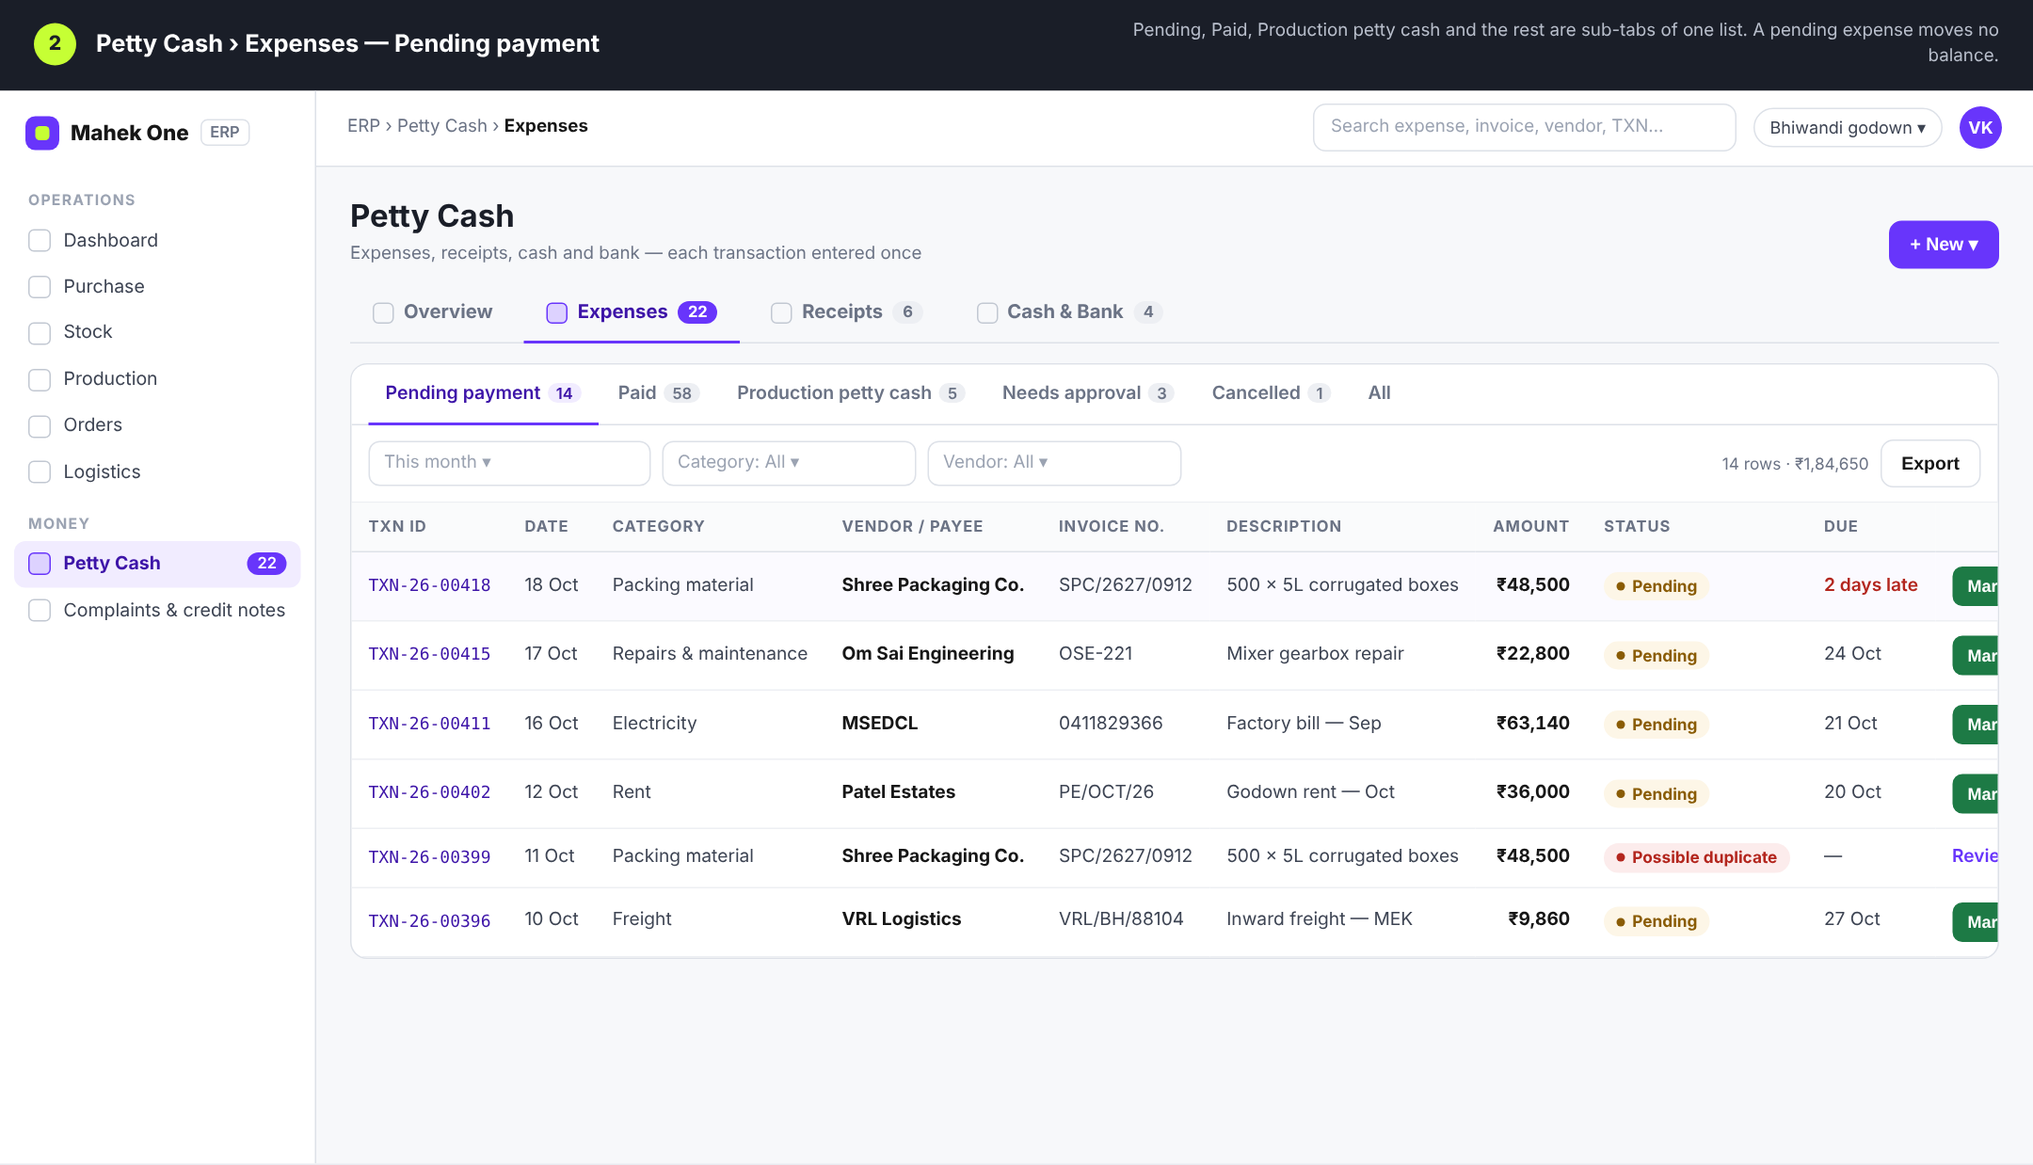
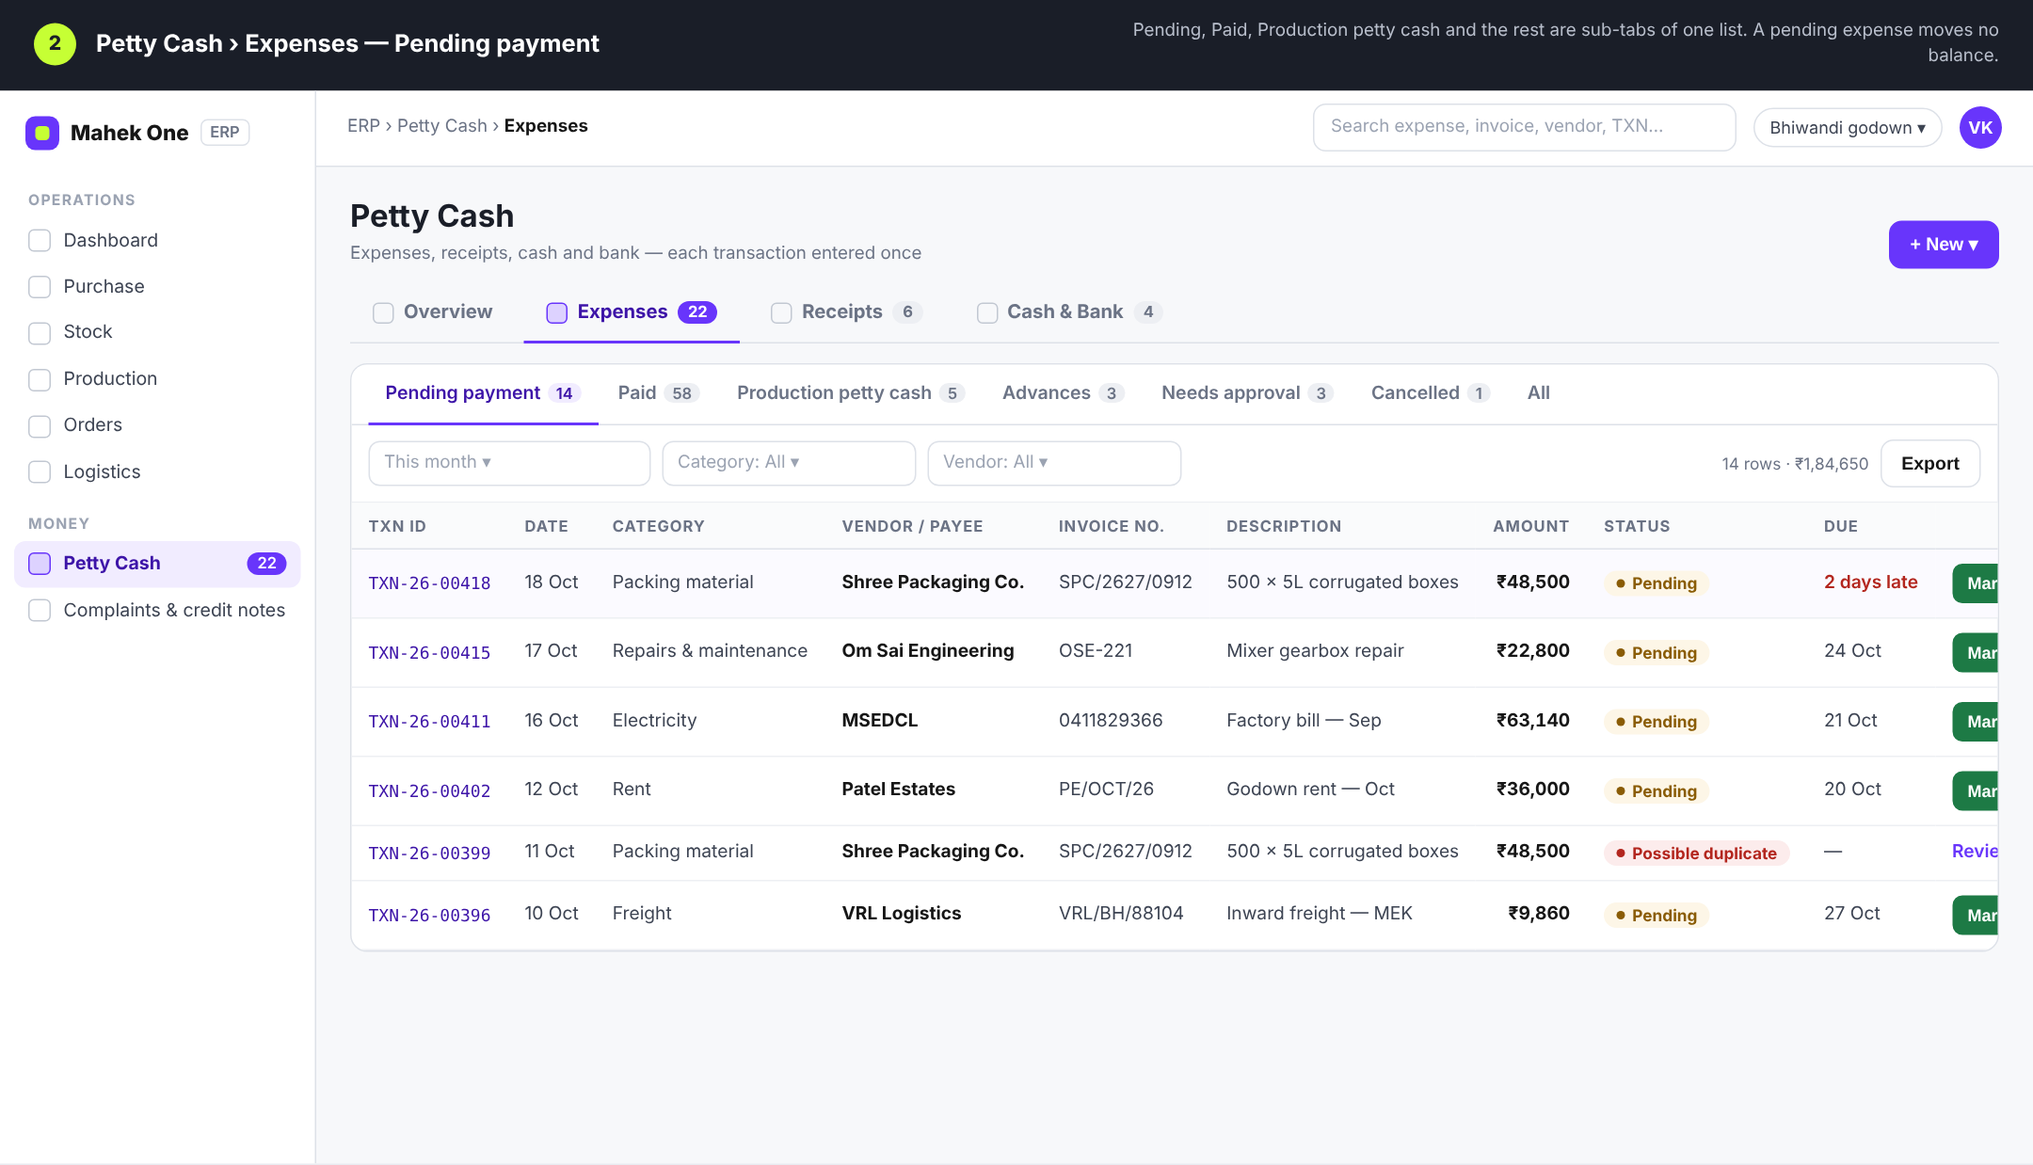
docs(erp): petty cash advances to employees — give, submit bills, settle
Claude-Session: https://claude.ai/code/session_01Lrq5JNPk5tZnbbz81iA7vf

diff --git a/docs/erp/money-flow/mockup.html b/docs/erp/money-flow/mockup.html
@@ -1,4 +1,3 @@
-<!doctype html><html><head><meta charset="utf-8"><title>Petty Cash module</title>
 <style>
 :root{--canvas:#f7f8fa;--surface:#fff;--line:#dde1e8;--line2:#c2c8d2;--div:#edeff3;--ink:#161616;--body:#3d4453;--muted:#6b7385;--faint:#9ba3b2;
 --brand:#6835fb;--brand-soft:#f1ecff;--brand-softer:#ddd2ff;--brand-deep:#3d14a8;--lime:#c6ff34;
@@ -155,7 +154,6 @@ tr.sel td{background:var(--brand-soft)}
 .ex{display:grid;grid-template-columns:1fr auto 1fr;gap:8px;align-items:center;font-size:12px;padding:6px 0;border-top:1px dashed var(--div)}
 .ex .a{text-align:right}
 </style></head><body>
-</head><body>
 <style>
 .modhead{display:flex;align-items:flex-end;gap:12px;margin-bottom:12px}
 .modhead h2{font-size:22px;color:#1a1e28;font-weight:700}
@@ -225,7 +223,7 @@ tr.sel td{background:var(--brand-soft)}
   <div class="pg">
    <div class="modhead" data-sub="Expenses"></div>
    <div class="card">
-    <div class="tabs"><div class="tab on">Pending payment<span class="c">14</span></div><div class="tab">Paid<span class="c">58</span></div><div class="tab">Production petty cash<span class="c">5</span></div><div class="tab">Needs approval<span class="c">3</span></div><div class="tab">Cancelled<span class="c">1</span></div><div class="tab">All</div></div>
+    <div class="tabs"><div class="tab on">Pending payment<span class="c">14</span></div><div class="tab">Paid<span class="c">58</span></div><div class="tab">Production petty cash<span class="c">5</span></div><div class="tab">Advances<span class="c">3</span></div><div class="tab">Needs approval<span class="c">3</span></div><div class="tab">Cancelled<span class="c">1</span></div><div class="tab">All</div></div>
     <div class="tool"><div class="in" style="width:200px">This month ▾</div><div class="in" style="width:180px">Category: All ▾</div><div class="in" style="width:180px">Vendor: All ▾</div><div class="ml sm2">14 rows · ₹1,84,650</div><button class="btn">Export</button></div>
     <table>
      <tr><th>TXN ID</th><th>Date</th><th>Category</th><th>Vendor / payee</th><th>Invoice no.</th><th>Description</th><th class="r">Amount</th><th>Status</th><th>Due</th><th></th></tr>
@@ -324,7 +322,7 @@ tr.sel td{background:var(--brand-soft)}
   <div class="pg" style="min-height:880px">
    <div class="modhead" data-sub="Expenses"></div>
    <div class="card">
-    <div class="tabs"><div class="tab">Pending payment<span class="c">14</span></div><div class="tab">Paid<span class="c">58</span></div><div class="tab on">Production petty cash<span class="c">5</span></div><div class="tab">Needs approval<span class="c">3</span></div><div class="tab">Cancelled<span class="c">1</span></div><div class="tab">All</div></div>
+    <div class="tabs"><div class="tab">Pending payment<span class="c">14</span></div><div class="tab">Paid<span class="c">58</span></div><div class="tab on">Production petty cash<span class="c">5</span></div><div class="tab">Advances<span class="c">3</span></div><div class="tab">Needs approval<span class="c">3</span></div><div class="tab">Cancelled<span class="c">1</span></div><div class="tab">All</div></div>
     <table><tr><th>TXN ID</th><th>Date</th><th>Category</th><th>Paid to</th><th>Bill no.</th><th>Paid from</th><th class="r">Amount</th><th>Status</th></tr>
     <tr><td class="mono">TXN-26-00423</td><td>19 Oct</td><td>Petrol</td><td><b>HP Petrol Pump</b></td><td>HP-77120</td><td><span class="acc"><i class="ca">₹</i>Cash · Sai Paint House rcpt</span></td><td class="r"><b>₹2,300</b></td><td><span class="pill drf">To review</span></td></tr>
     <tr><td class="mono">TXN-26-00410</td><td>18 Oct</td><td>Tea / food</td><td><b>Ramesh Tea Stall</b></td><td>RT-18</td><td><span class="acc"><i class="k">K</i>Kotak GPay</span></td><td class="r"><b>₹640</b></td><td><span class="pill drf">To review</span></td></tr>
@@ -556,6 +554,133 @@ tr.sel td{background:var(--brand-soft)}
 </div>
 </section>
 
+<!-- ============ 10. ADVANCES – LIST + ISSUE ============ -->
+<section class="shot" id="s10">
+<div class="cap"><div class="n">10</div><h1>Petty Cash › Expenses — Advances</h1><p>A lump sum handed to an employee is an advance, not an expense. Issuing it moves money from Petty Cash to that person's advance; it becomes expense only as their bills are approved.</p></div>
+<div class="app">
+ <aside class="side" data-on="Petty Cash"></aside>
+ <div class="main">
+  <div class="top"><div class="crumb">ERP › Petty Cash › <b>Expenses</b> › Advances</div><div class="search">Search…</div><div class="av" style="background:var(--warn)">RS</div></div>
+  <div class="pg" style="min-height:900px">
+   <div class="modhead" data-sub="Expenses"></div>
+   <div class="card">
+    <div class="tabs"><div class="tab">Pending payment<span class="c">14</span></div><div class="tab">Paid<span class="c">58</span></div><div class="tab">Production petty cash<span class="c">5</span></div><div class="tab on">Advances<span class="c">3</span></div><div class="tab">Needs approval<span class="c">3</span></div><div class="tab">All</div></div>
+    <table><tr><th>Advance</th><th>Given to</th><th>Issued</th><th>From</th><th class="r">Given</th><th class="r">Bills approved</th><th class="r">Bills to review</th><th class="r">Still with them</th><th>Status</th></tr>
+    <tr><td class="mono">ADV-26-0031</td><td><b>Suresh K</b><div class="sm2">Mixing &amp; Blending</div></td><td>14 Oct</td><td><span class="acc"><i class="pt">P</i>Petty Cash</span></td><td class="r"><b>₹5,000</b></td><td class="r">₹2,860</td><td class="r">₹1,540</td><td class="r"><b>₹600</b></td><td><span class="pill drf">Bills to review</span></td></tr>
+    <tr><td class="mono">ADV-26-0029</td><td><b>Anil P</b><div class="sm2">Dispatch</div></td><td>10 Oct</td><td><span class="acc"><i class="ca">₹</i>Cash in Hand</span></td><td class="r"><b>₹3,000</b></td><td class="r">₹1,200</td><td class="r">₹1,920</td><td class="r"><b style="color:var(--danger)">−₹120</b><div class="sm2">owed to him</div></td><td><span class="pill drf">Bills to review</span></td></tr>
+    <tr><td class="mono">ADV-26-0027</td><td><b>Manoj T</b><div class="sm2">Packing</div></td><td>2 Oct</td><td><span class="acc"><i class="k">K</i>Kotak GPay</span></td><td class="r"><b>₹4,000</b></td><td class="r">₹4,000</td><td class="r">—</td><td class="r"><b>₹0</b></td><td><span class="pill paid">Settled</span></td></tr>
+    </table>
+   </div>
+   <div class="veil"></div>
+   <div class="dlg" style="left:190px;top:40px;width:780px">
+    <div class="dh"><h3>Give an advance</h3><span class="mono" style="font-size:11.5px">TXN-26-00425 · ADV-26-0032</span><span class="x">✕</span></div>
+    <div class="db">
+     <div class="grid g3" style="margin-bottom:14px">
+      <div class="f"><label>Given to <em>*</em></label><div class="box sel">Ravi M · Refilling</div></div>
+      <div class="f"><label>Amount <em>*</em></label><div class="box">₹ 5,000</div></div>
+      <div class="f"><label>Date <em>*</em></label><div class="box">20 Oct 2026</div></div>
+      <div class="f"><label>For</label><div class="box">Diesel + loading labour, Bhiwandi trip</div></div>
+      <div class="f"><label>Bills due by</label><div class="box">27 Oct 2026</div><div class="hint">7 days, then he is reminded</div></div>
+      <div class="f"><label>Handed over as</label><div class="box sel">Cash</div></div>
+     </div>
+     <div class="f" style="margin-bottom:8px"><label>Paid from <em>*</em></label></div>
+     <div class="grid" style="grid-template-columns:repeat(4,1fr);gap:8px;margin-bottom:12px">
+      <div class="cand best" style="margin:0;flex-direction:column;align-items:flex-start;gap:2px"><span class="acc"><i class="pt">P</i>Petty Cash</span><span class="sm2">₹6,720 → ₹1,720</span></div>
+      <div class="cand" style="margin:0;flex-direction:column;align-items:flex-start;gap:2px"><span class="acc"><i class="ca">₹</i>Cash in Hand</span><span class="sm2">₹63,450</span></div>
+      <div class="cand" style="margin:0;flex-direction:column;align-items:flex-start;gap:2px"><span class="acc"><i class="k">K</i>Kotak GPay</span><span class="sm2">matched on Kotak statement</span></div>
+      <div class="cand" style="margin:0;flex-direction:column;align-items:flex-start;gap:2px"><span class="acc"><i class="ca">₹</i>Cash from a customer</span><span class="sm2">pick the cash receipt</span></div>
+     </div>
+     <div class="note i"><b>i</b><div>This is a <b>transfer</b>, not an expense: Petty Cash goes down ₹5,000 and <b>Advance · Ravi M</b> goes up ₹5,000. Nothing reaches the expense books until his bills are approved. Ravi already holds <b>no other open advance</b>.</div></div>
+    </div>
+    <div class="df"><span class="sm2">Given by Rajesh S (Production Head) · Ravi is told on his phone</span><button class="btn ml">Cancel</button><button class="btn p">Give advance</button></div>
+   </div>
+  </div>
+ </div>
+</div>
+</section>
+
+<!-- ============ 11. EMPLOYEE SUBMITS BILLS ============ -->
+<section class="shot" id="s11">
+<div class="cap"><div class="n">11</div><h1>Petty Cash › Expenses › Advances — Submit bills</h1><p>The employee opens his own advance and uploads where the money went, a photo per bill. Each line becomes an expense record, drawn from the advance rather than from Petty Cash.</p></div>
+<div class="app">
+ <aside class="side" data-on="Petty Cash"></aside>
+ <div class="main">
+  <div class="top"><div class="crumb">ERP › Petty Cash › <b>Expenses</b> › Advances › ADV-26-0031</div><div class="search">Search…</div><div class="av" style="background:var(--ok)">SK</div></div>
+  <div class="pg" style="min-height:880px">
+   <div class="modhead" data-sub="Expenses"></div>
+   <div class="bal" style="margin-bottom:12px"><div><div class="l">Given · 14 Oct</div><div class="v">₹5,000</div></div><div><div class="l">Approved</div><div class="v">₹2,860</div></div><div><div class="l">Waiting for review</div><div class="v">₹1,540</div></div><div><div class="l">Still with you</div><div class="v">₹600</div></div></div>
+   <div class="veil"></div>
+   <div class="dlg" style="left:110px;top:30px;width:960px">
+    <div class="dh"><h3>Submit bills against ADV-26-0031</h3><span class="sm2">Suresh K · ₹600 not yet accounted for</span><span class="x">✕</span></div>
+    <div class="db">
+     <table><tr><th>Date</th><th>Category</th><th>Paid to</th><th>Bill no.</th><th class="r">Amount</th><th>Bill photo</th><th></th></tr>
+     <tr><td>18 Oct</td><td>Tea / food</td><td><b>Ramesh Tea Stall</b></td><td>RT-21</td><td class="r"><b>₹340</b></td><td><span class="file" style="padding:4px 8px"><i>JPG</i>rt21.jpg</span></td><td class="sm2">✕</td></tr>
+     <tr><td>19 Oct</td><td>Hardware</td><td><b>Balaji Hardware</b></td><td>BH/3390</td><td class="r"><b>₹180</b></td><td><span class="file" style="padding:4px 8px"><i>JPG</i>bh3390.jpg</span></td><td class="sm2">✕</td></tr>
+     <tr><td>19 Oct</td><td>Labour</td><td><b>Loading — 2 men</b></td><td><span class="sm2">no bill</span></td><td class="r"><b>₹80</b></td><td><span class="pill unm">Note instead</span></td><td class="sm2">✕</td></tr>
+     <tr><td colspan="7"><span class="link">+ Add another bill</span> &nbsp;·&nbsp; <span class="link">Upload several photos at once</span> <span class="sm2">— each photo is read and its amount filled in for you to check</span></td></tr>
+     </table>
+     <div class="sum" style="margin-top:14px">
+      <div><div class="l">Still with you</div><div class="v">₹600</div></div><div class="op">−</div>
+      <div><div class="l">These bills</div><div class="v">₹600</div></div><div class="op">=</div>
+      <div><div class="l">Left after this</div><div class="v" style="color:var(--ok)">₹0</div></div>
+     </div>
+     <div class="note w" style="margin-top:12px"><b>!</b><div>A line with <b>no bill</b> needs a sentence saying why, and is flagged for the Accountant. Spent more than you were given? Add the bills anyway — the extra is <b>owed back to you</b> once approved.</div></div>
+    </div>
+    <div class="df"><span class="sm2">Goes to the Accountant for review · the Production Head sees it too</span><button class="btn ml">Save draft</button><button class="btn p">Submit 3 bills · ₹600</button></div>
+   </div>
+  </div>
+ </div>
+</div>
+</section>
+
+<!-- ============ 12. REVIEW + SETTLE ============ -->
+<section class="shot" id="s12">
+<div class="cap"><div class="n">12</div><h1>Petty Cash › Expenses › Advances — Review and settle</h1><p>The Accountant approves each bill. When nothing is left to review, the advance is settled: unspent cash comes back to Petty Cash, or an overspend is paid back to the employee — one transaction each way.</p></div>
+<div class="app">
+ <aside class="side" data-on="Petty Cash"></aside>
+ <div class="main">
+  <div class="top"><div class="crumb">ERP › Petty Cash › <b>Expenses</b> › Advances › ADV-26-0029</div><div class="search">Search…</div><div class="av">DP</div></div>
+  <div class="pg" style="min-height:900px">
+   <div class="modhead" data-sub="Expenses"></div>
+   <div style="display:grid;grid-template-columns:1fr 360px;gap:14px">
+    <div>
+     <div class="card" style="margin-bottom:12px;padding:14px 16px">
+      <div style="display:flex;align-items:center;gap:10px"><div style="font-size:18px;font-weight:750;color:#1a1e28">ADV-26-0029 · Anil P</div><span class="pill drf">Bills to review</span><span class="sm2 ml">Issued 10 Oct · Cash in Hand · TXN-26-00402</span></div>
+      <div class="sm2" style="margin-top:4px">For: courier + transporter loading at Bhiwandi · bills due 17 Oct (submitted 19 Oct)</div>
+     </div>
+     <div class="card">
+      <table><tr><th>TXN ID</th><th>Date</th><th>Category</th><th>Paid to</th><th>Bill</th><th class="r">Amount</th><th>Review</th></tr>
+      <tr><td class="mono">TXN-26-00407</td><td>11 Oct</td><td>Courier</td><td><b>DTDC Nagpur</b></td><td><span class="link">photo</span></td><td class="r">₹1,200</td><td><span class="pill paid">Approved</span></td></tr>
+      <tr class="sel"><td class="mono">TXN-26-00426</td><td>15 Oct</td><td>Labour</td><td><b>Bhiwandi loading</b></td><td><span class="link">photo</span></td><td class="r">₹1,500</td><td><button class="btn sm ok">Approve</button> <button class="btn sm">Send back</button></td></tr>
+      <tr><td class="mono">TXN-26-00427</td><td>16 Oct</td><td>Tea / food</td><td><b>Highway dhaba</b></td><td><span class="pill unm">No bill</span></td><td class="r">₹420</td><td><button class="btn sm ok">Approve</button> <button class="btn sm">Send back</button></td></tr>
+      </table>
+     </div>
+     <div class="note i" style="margin-top:12px"><b>i</b><div>Each approved bill posts <b>once</b> as an expense paid from <b>Advance · Anil P</b>. Petty Cash and Cash in Hand do not move again — they moved when the advance was given.</div></div>
+    </div>
+    <div class="card" style="padding:14px 16px">
+     <div style="font-weight:750;color:#1a1e28;margin-bottom:10px">Settle the advance</div>
+     <div class="ex" style="grid-template-columns:1fr auto;border:0"><div>Given</div><b>₹3,000</b></div>
+     <div class="ex" style="grid-template-columns:1fr auto"><div>Bills, if all approved</div><b>₹3,120</b></div>
+     <div class="ex" style="grid-template-columns:1fr auto"><div>Difference</div><b style="color:var(--danger)">₹120 owed to Anil</b></div>
+     <div class="f" style="margin:12px 0 8px"><label>Pay it back from</label><div class="box sel">Petty Cash</div></div>
+     <div class="sm2" style="margin-bottom:12px">Unspent instead? The same step records <b>cash returned</b> to Petty Cash — a transfer back, with its own TXN.</div>
+     <button class="btn p" style="width:100%;opacity:.55">Settle · pay Anil ₹120</button>
+     <div class="sm2" style="margin-top:6px">Waiting on 2 bills to review</div>
+     <div style="border-top:1px solid var(--div);margin-top:14px;padding-top:10px">
+      <div style="font-size:11px;letter-spacing:.06em;text-transform:uppercase;color:var(--muted);font-weight:700;margin-bottom:8px">History</div>
+      <div class="tl">
+       <div class="ev g"><div class="t">₹3,000 given in cash</div><div class="m">10 Oct · by Rajesh S</div></div>
+       <div class="ev"><div class="t">DTDC ₹1,200 approved</div><div class="m">13 Oct · by Deepa P</div></div>
+       <div class="ev y"><div class="t">2 bills submitted, 2 days late</div><div class="m">19 Oct · reminded on 18 Oct</div></div>
+      </div>
+     </div>
+    </div>
+   </div>
+  </div>
+ </div>
+</div>
+</section>
+
 <script>
 const ERP=[["OPERATIONS",null],["Dashboard",""],["Purchase",""],["Stock",""],["Production",""],["Orders",""],["Logistics",""],["MONEY",null],["Petty Cash","22"],["Complaints & credit notes",""]];
 const ACC=[["ACCOUNTS",null],["Today",""],["Order approvals",""],["Payments to confirm",""],["Outstanding",""],["Bills",""],["Bank statement","4"],["Cash flow",""]];
@@ -573,4 +698,3 @@ document.querySelectorAll('.modhead').forEach(m=>{
  bar.innerHTML=SUBS.map(([n,c])=>`<div class="sn${n===on?' on':''}"><i></i>${n}${c?`<span class="c">${c}</span>`:''}</div>`).join('');
  m.after(bar);});
 </script>
-</body></html>

diff --git a/docs/erp/money-flow/README.md b/docs/erp/money-flow/README.md
@@ -12,7 +12,7 @@ across the top, and each page keeps its lists as sub-tabs:
 | Sub-module | Sub-tabs |
 |---|---|
 | Overview (opens here) | Today · Reports · Audit trail |
-| Expenses | Pending payment · Paid · Production petty cash · Needs approval · Cancelled · All |
+| Expenses | Pending payment · Paid · Production petty cash · Advances · Needs approval · Cancelled · All |
 | Receipts | All · Bank · Cash · Not matched to bank |
 | Cash & Bank | Transfers · Kotak · ICICI · Cash · Petty Cash (account statements) |
 
@@ -25,6 +25,17 @@ One real movement of money is entered once, gets one Transaction ID, and posts
 to the ledgers once. A pending expense moves no balance. Transfers between our
 own accounts are never income or expense. Bank lines are matched, not re-entered.
 
+## Advances to employees
+
+A lump sum handed to an employee (say ₹5,000 from the Production Head) is an
+**advance**, not an expense. Giving it is a transfer: Petty Cash (or Cash in
+Hand, or Kotak) goes down and *Advance · that employee* goes up. The employee
+then submits his bills against the advance, a photo each; every approved bill
+posts once as an expense paid from his advance, so Petty Cash does not move a
+second time. When nothing is left to review the advance is settled in one step:
+unspent cash returned to Petty Cash, or an overspend paid back to him. A bill
+with no receipt needs a written reason and is flagged for the Accountant.
+
 ## Screens
 
 | # | Screen | Image |
@@ -34,6 +45,9 @@ own accounts are never income or expense. Bank lines are matched, not re-entered
 | 3 | Expenses › New expense | ![](03-expenses-new.png) |
 | 4 | Expenses › Mark as Paid | ![](04-expenses-mark-paid.png) |
 | 5 | Expenses › Production petty cash | ![](05-expenses-production-petty-cash.png) |
+| 10 | Expenses › Advances › Give an advance | ![](10-expenses-advances-give.png) |
+| 11 | Advances › Employee submits bills | ![](11-advances-submit-bills.png) |
+| 12 | Advances › Review and settle | ![](12-advances-review-settle.png) |
 | 6 | Receipts › New receipt | ![](06-receipts-new.png) |
 | 7 | Cash & Bank › Transfers | ![](07-cash-bank-transfers.png) |
 | 8 | Cash & Bank › Cash statement | ![](08-cash-bank-cash-statement.png) |
